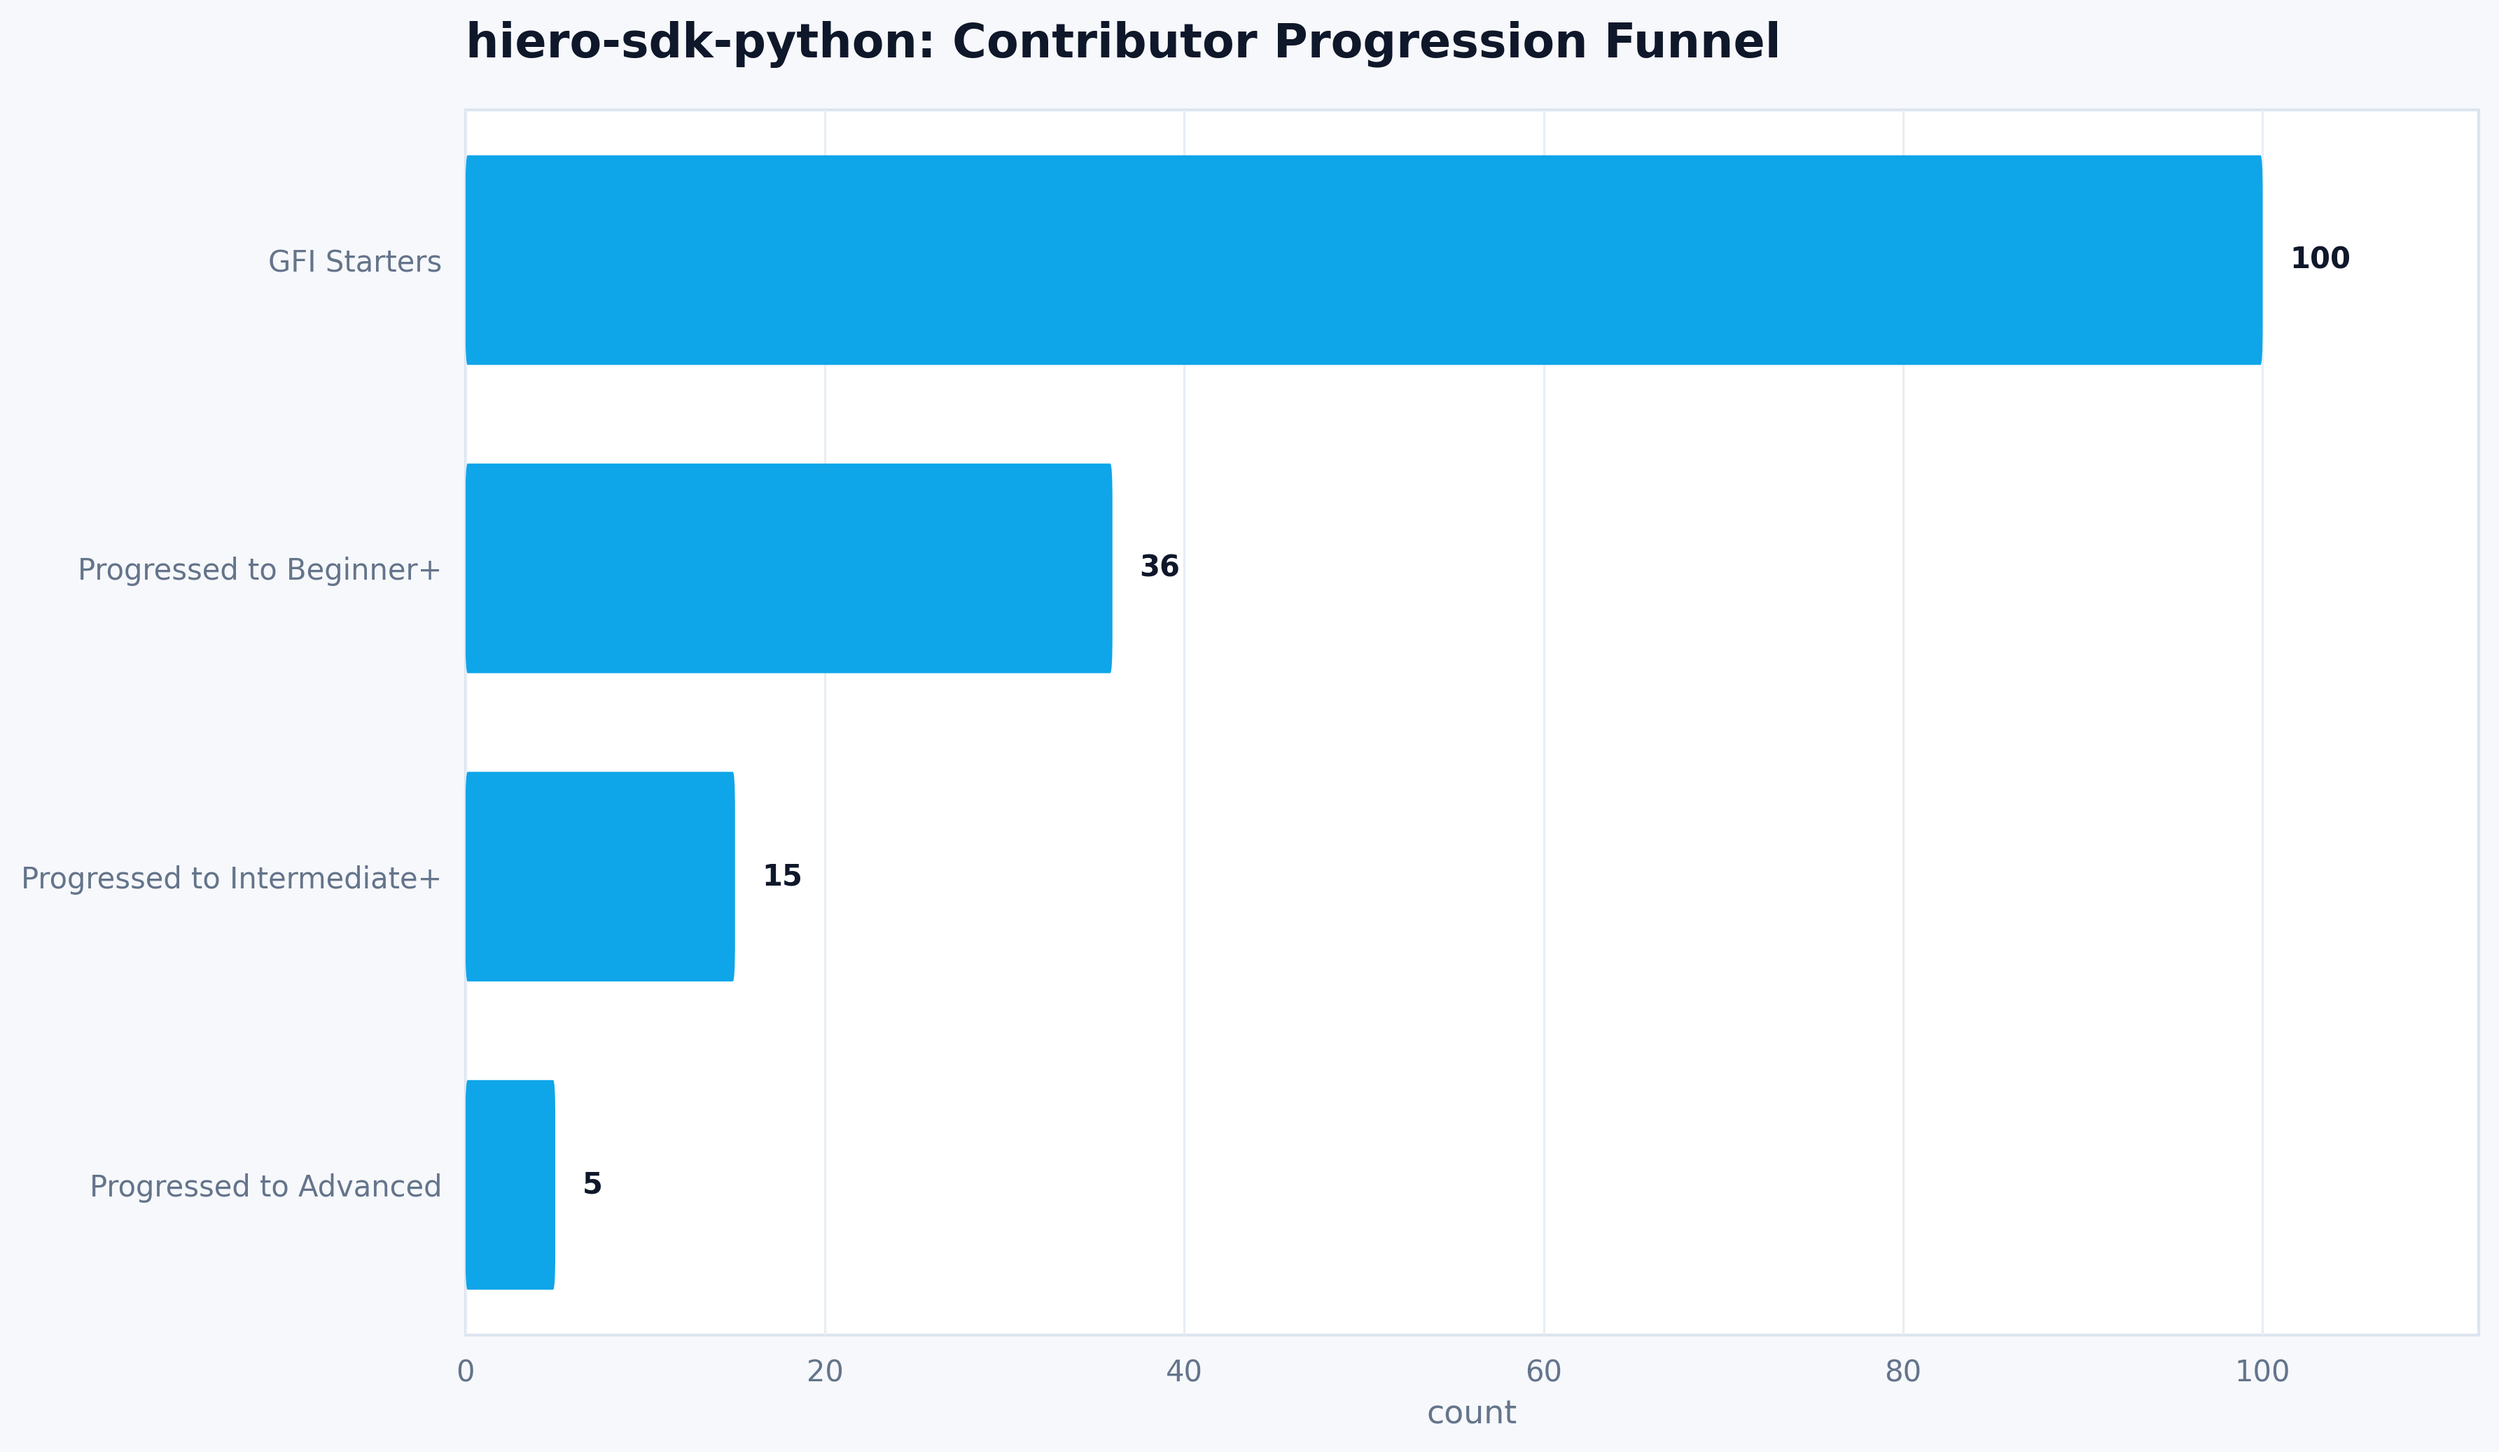
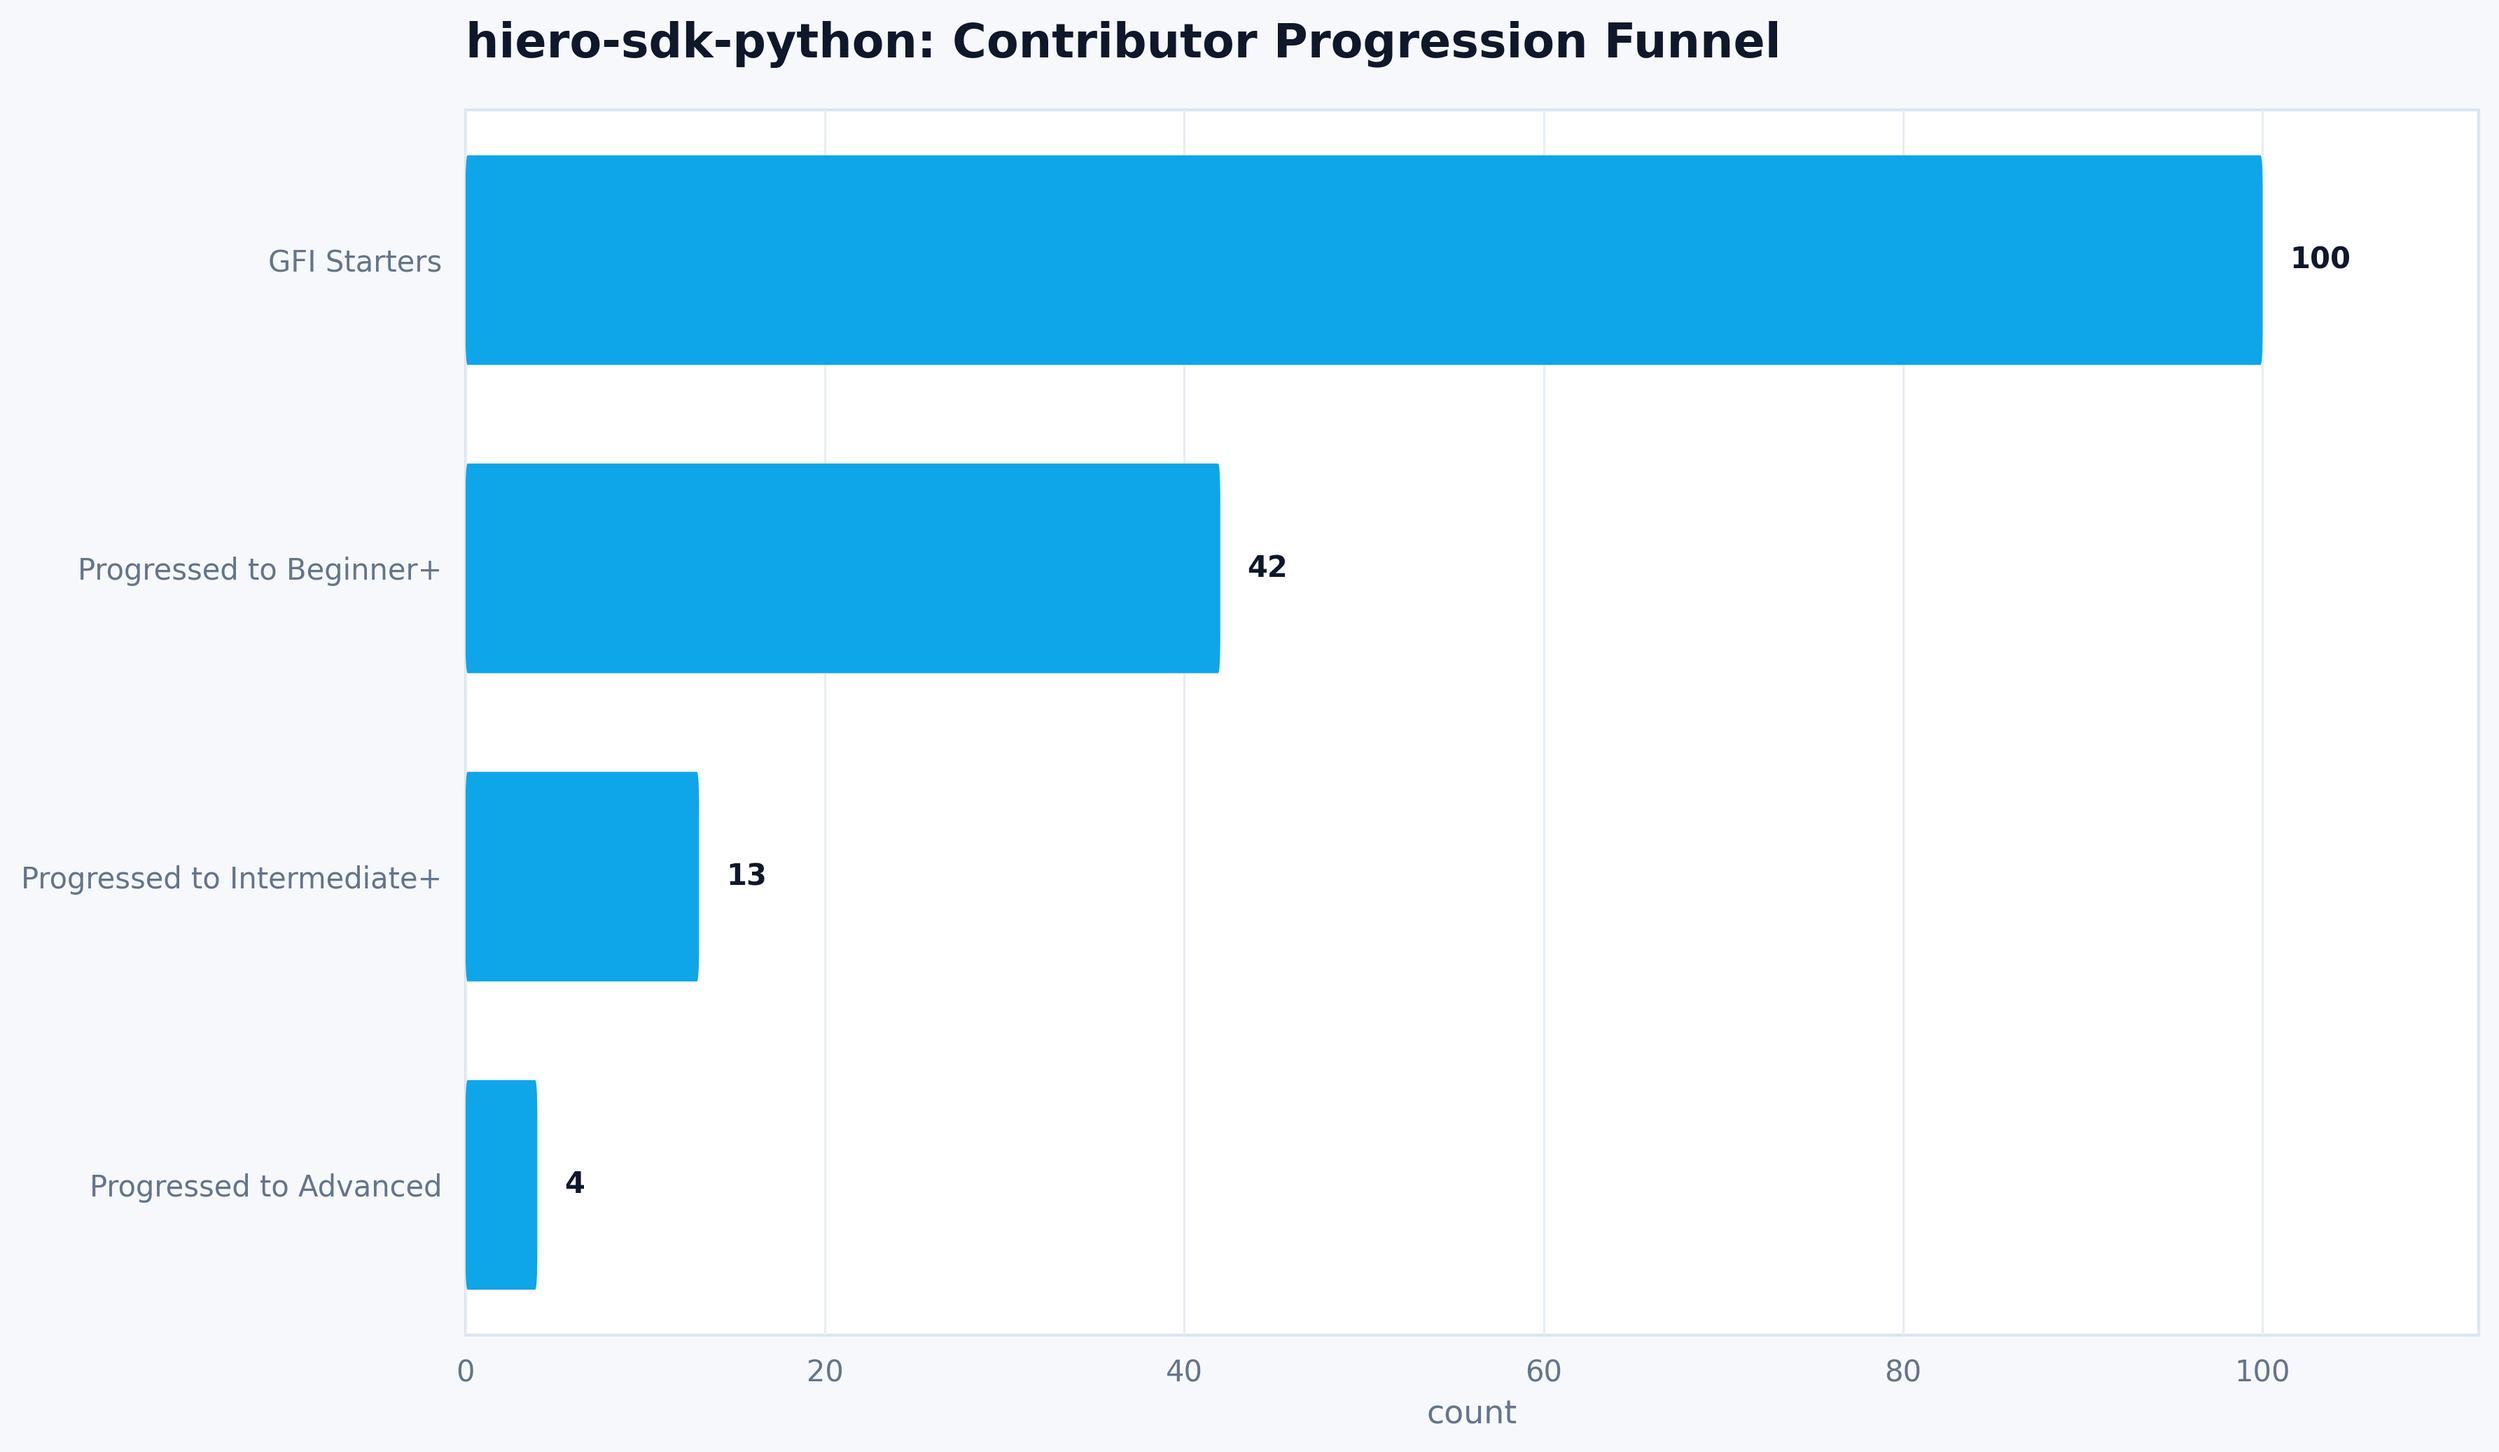
Update churn analysis + add retention and funnel charts

Changed region(s): [[0.4354, 0.3086, 0.5287, 0.4629], [0.2799, 0.5246, 0.311, 0.6789], [0.2177, 0.7406, 0.2488, 0.8949]]

diff --git a/src/hiero_analytics/run_contributor_churn_analysis.py b/src/hiero_analytics/run_contributor_churn_analysis.py
@@ -1,4 +1,6 @@
 import os
+import random
+from datetime import datetime, timedelta
 import pandas as pd
 from hiero_analytics.config.logging import setup_logging
 from hiero_analytics.config.paths import ORG, ensure_repo_dirs
@@ -20,6 +22,46 @@ ORG_NAME = ORG
 REPO = "hiero-sdk-python"
 short_repo = REPO.split("/")[-1]
 
+def generate_mock_data():
+    """Generate mock PR data for testing when no token is present."""
+    print("Generating mock data for analysis...")
+    data = []
+    authors = [f"author_{i}" for i in range(100)]
+    
+    start_date = datetime(2023, 1, 1)
+    
+    for author in authors:
+        # Determine max level for this mock author
+        r = random.random()
+        if r < 0.6: # 60% stop at GFI
+            max_level_idx = 0
+        elif r < 0.85: # 25% reach Beginner
+            max_level_idx = 1
+        elif r < 0.95: # 10% reach Intermediate
+            max_level_idx = 2
+        else: # 5% reach Advanced
+            max_level_idx = 3
+            
+        current_date = start_date + timedelta(days=random.randint(0, 300))
+        
+        # Always start with GFI
+        levels_to_achieve = list(range(max_level_idx + 1))
+        
+        for l_idx in levels_to_achieve:
+            level_name = DIFFICULTY_LEVELS[l_idx].name
+            num_prs = random.randint(1, 4) if l_idx == max_level_idx else 1
+            for _ in range(num_prs):
+                data.append({
+                    "author": author,
+                    "pr_merged_at": current_date,
+                    "level": level_name,
+                    "issue_labels": list(DIFFICULTY_LEVELS[l_idx].labels),
+                    "pr_number": random.randint(1, 10000)
+                })
+                current_date += timedelta(days=random.randint(1, 30))
+                
+    return pd.DataFrame(data)
+
 def get_contributor_level(labels: set[str]) -> str:
     """Classify PR difficulty level based on labels."""
     for spec in reversed(DIFFICULTY_LEVELS): # advanced, intermediate, beginner, gfi
@@ -30,25 +72,26 @@ def get_contributor_level(labels: set[str]) -> str:
 def run():
     repo_data_dir, repo_charts_dir = ensure_repo_dirs(f"{ORG_NAME}/{REPO}")
 
-    # GITHUB_TOKEN check remains here as a fail-fast for the runner
     if not os.getenv("GITHUB_TOKEN"):
-        raise RuntimeError("no github token, exiting data fetch as it will exceed api limits")
-
-    client = GitHubClient()
-    print(f"Fetching PR data for {ORG_NAME}/{REPO}...")
-    prs = fetch_repo_merged_pr_difficulty_graphql(
-        client,
-        owner=ORG_NAME,
-        repo=REPO,
-        use_cache=True
-    )
+        print("GITHUB_TOKEN not set. Using mock data.")
+        df = generate_mock_data()
+    else:
+        client = GitHubClient()
+        print(f"Fetching PR data for {ORG_NAME}/{REPO}...")
+        prs = fetch_repo_merged_pr_difficulty_graphql(
+            client,
+            owner=ORG_NAME,
+            repo=REPO,
+            use_cache=True
+        )
+        
+        df = prs_to_dataframe(prs)
+        if df.empty:
+            print("No PR data found. Using mock data.")
+            df = generate_mock_data()
+        else:
+            df["level"] = df["issue_labels"].apply(lambda labels: get_contributor_level(set(labels or [])))
     
-    df = prs_to_dataframe(prs)
-    if df.empty:
-        print("No PR data found.")
-        return
-
-    df["level"] = df["issue_labels"].apply(lambda labels: get_contributor_level(set(labels or [])))
     df = df.dropna(subset=["author", "pr_merged_at"]).sort_values(["author", "pr_merged_at"])
     
     # Core analysis logic moved to hiero_analytics.analysis.contributor_churn

diff --git a/src/hiero_analytics/plotting/scatter.py b/src/hiero_analytics/plotting/scatter.py
@@ -122,6 +122,7 @@ def plot_scatter_with_regression(
     # Layout polish
     # -------------------------
     ax.margins(x=0.05, y=0.08)
+    ax.set_ylim(bottom=0)
 
     # -------------------------
     # Finalize
